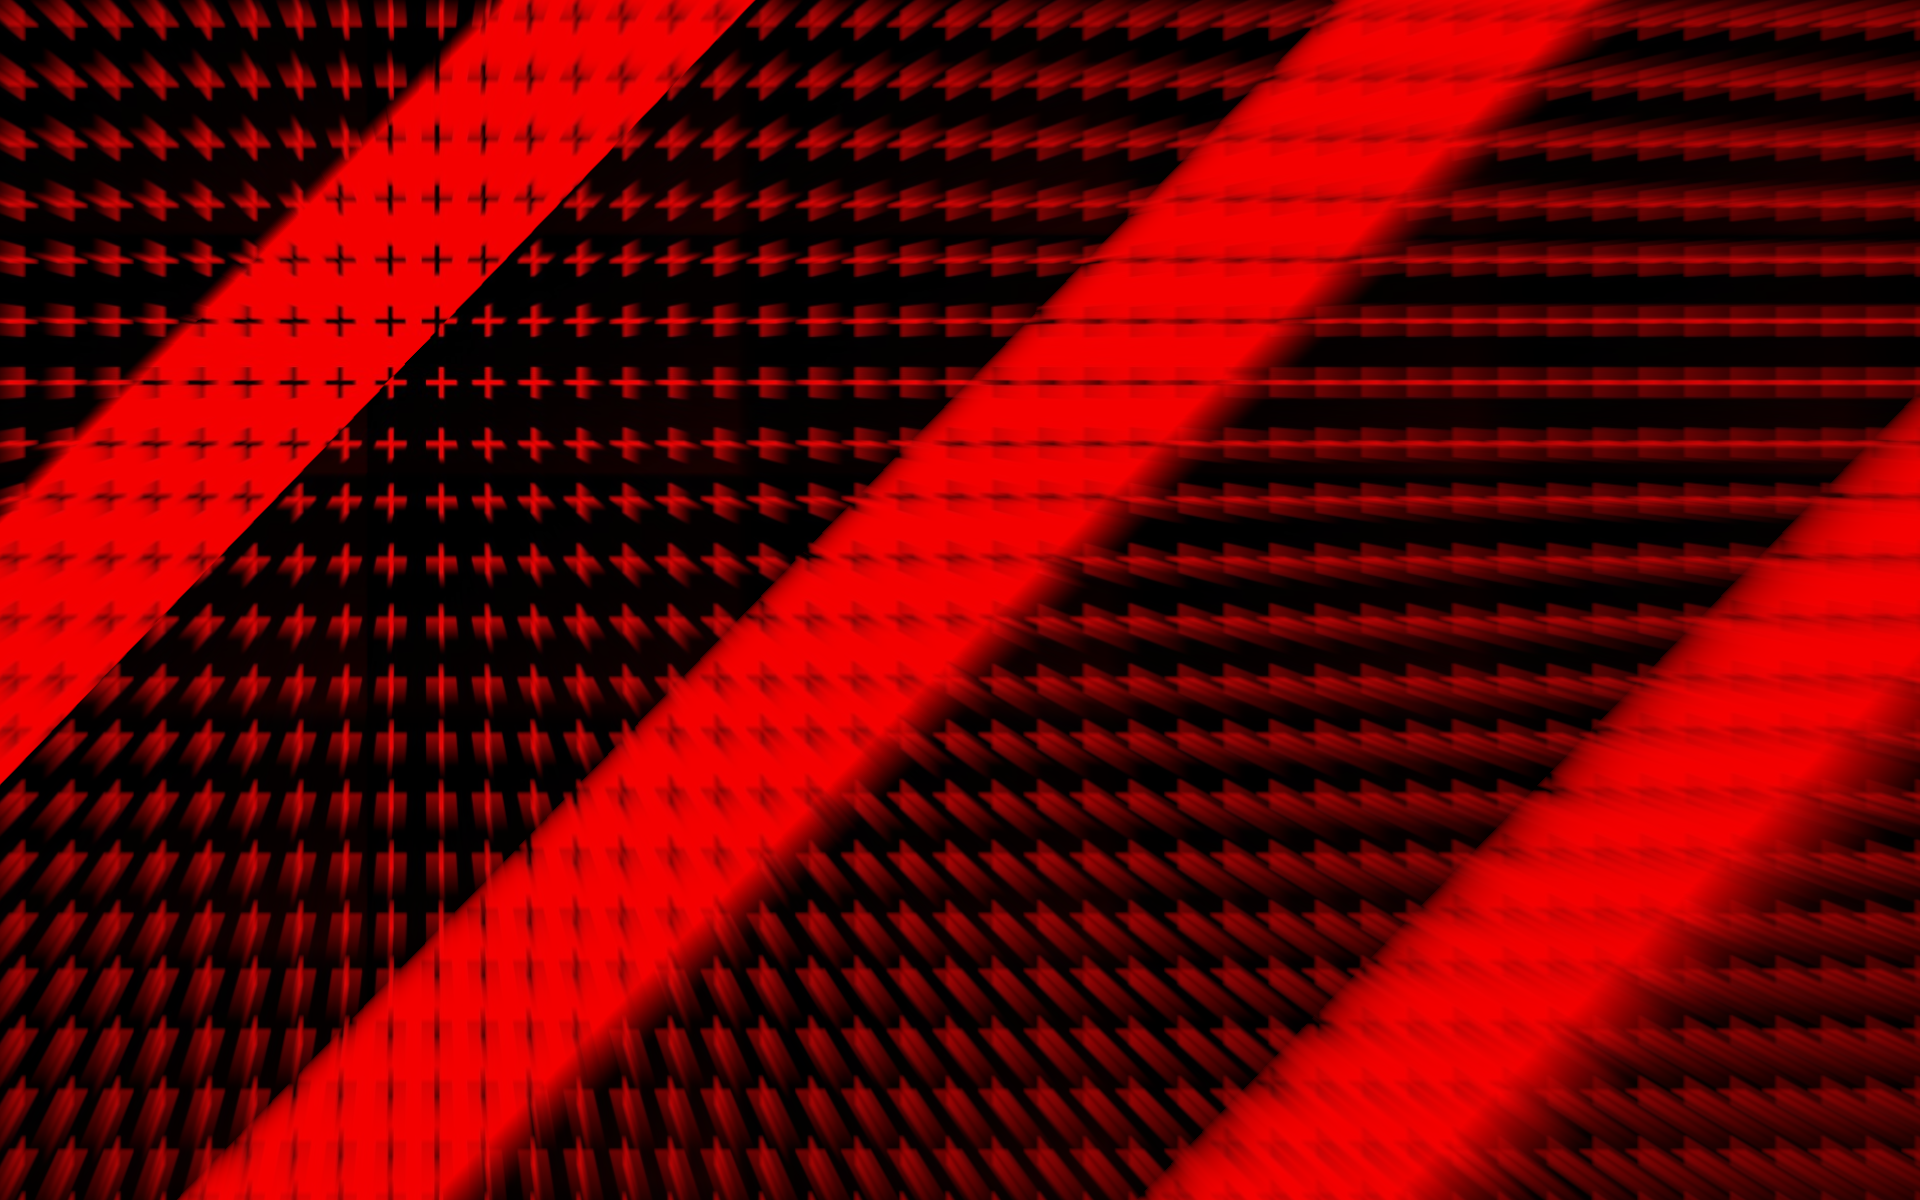
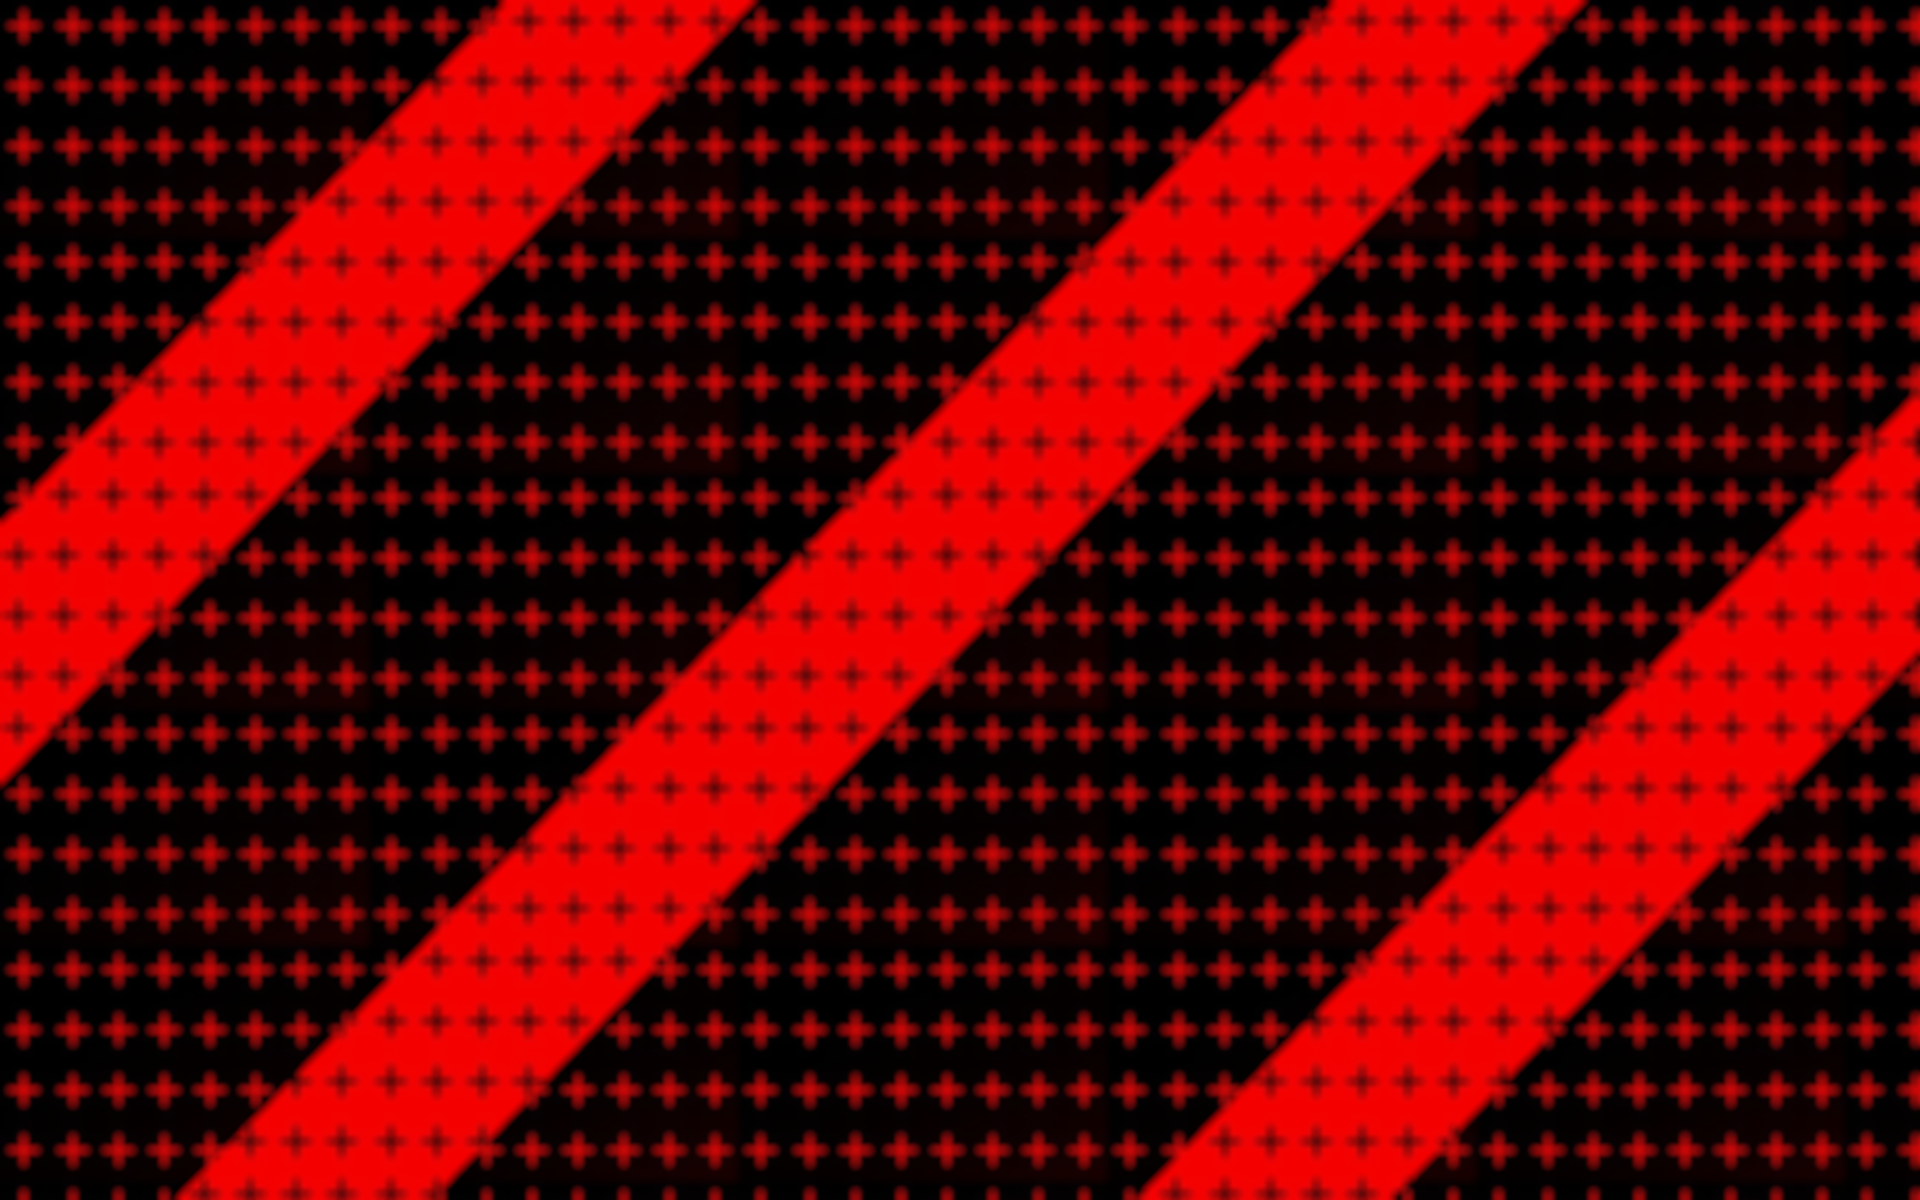
[IMP] results

diff --git a/src/media_generation/generators/results_generator.py b/src/media_generation/generators/results_generator.py
@@ -1,5 +1,5 @@
 from typing import List
-from PIL import Image
+from PIL import Image, ImageFilter
 from PIL.PngImagePlugin import PngImageFile
 import logging
 
@@ -26,6 +26,12 @@ _logger = logging.getLogger(__name__)
 class ResultsGenerator(AbstractRaceGenerator):
     def _get_visual_type(self) -> str:
         return 'results'
+
+    def _get_background_image(self) -> PngImageFile:
+        bg = super()._get_background_image()
+        if not bg:
+            return bg
+        return bg.filter(ImageFilter.GaussianBlur(5))
 
     def _generate_part_image(self, config_key):
         config = self.visual_config[config_key]
@@ -123,10 +129,12 @@ class ResultsGenerator(AbstractRaceGenerator):
         return img
 
     def _generate_logos_image(self, width, height):
-        img = Image.new('RGBA', (width, height), (0,0,0,0))
+        img = Image.new('RGBA', (width, height), (0,0,0,150))
+        img = img.filter(ImageFilter.GaussianBlur(radius=10))
+
         # champ
         champ_logo = self._get_champ_logo(self.visual_config['logos']['champ'])
-        paste(champ_logo, img, left=0)
+        paste(champ_logo, img, left=20)
 
         # secondary
         champ_logo = self._get_champ_logo(self.visual_config['logos']['secondary'])
